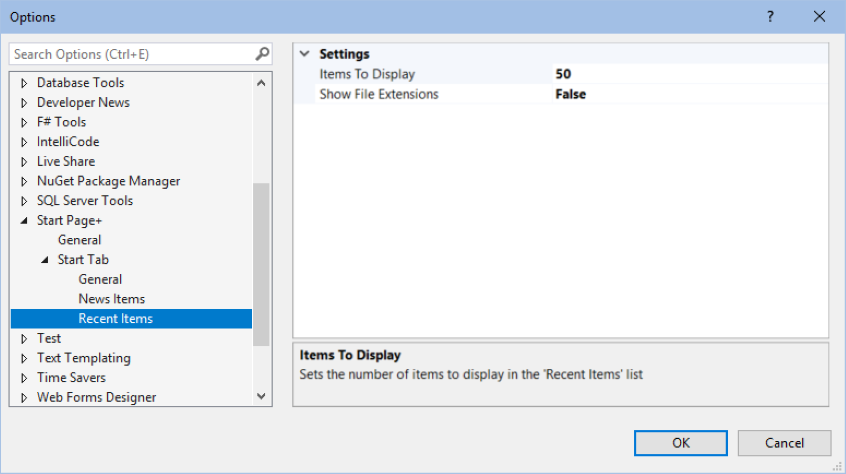
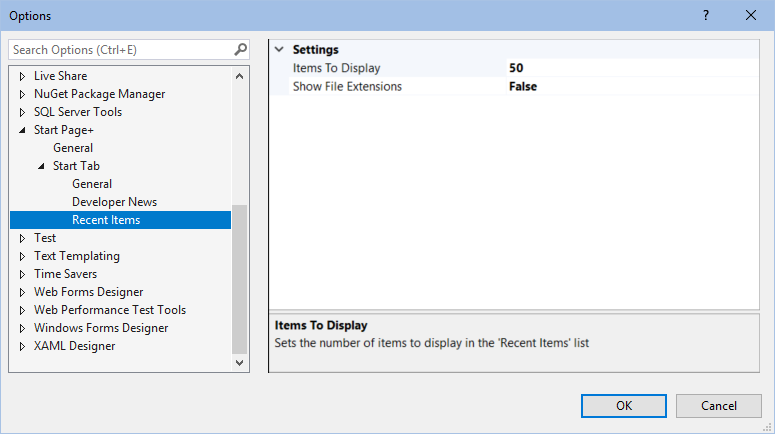
Update documentation source files
#1271 #1272 #1273 #1275 #1251

diff --git a/src/ui/Services/VisualStudioService.cs b/src/ui/Services/VisualStudioService.cs
@@ -49,8 +49,8 @@ namespace StartPagePlus.UI.Services
         private IVsShell4 VsShell4
             => GlobalServices.VsShell4;
 
-        public bool ExecuteCommand(string action)
-            => ExecuteCommand(action);
+        //public bool ExecuteCommand(string action)
+        //    => ExecuteCommand(action);
 
         public bool ExecuteCommand(string action, string args = null)
         {

diff --git a/docs-source/changelog.md b/docs-source/changelog.md
@@ -9,36 +9,47 @@ page on the [Start Page+][start-page-plus-url] website.
 ### v1.0 - 2020-05-28
 
 #### Added
-  - a **Restart Visual Studio** item to *Get Started* column [(GitHub Issue #20)][github-issue-20]
-    - also a Restart Visual Studio **_as Administrator_** item
-  - the ability to **pin**/**unpin** items in the *Recent Items* list [(GitHub Issue #21)][github-issue-21]
-  - a **Max Width** option [(GitHub Issue #32)][github-issue-32]
+- General
+    - a **Show Start Tab Title** option
+    - a **Start Tab Title Text** option
+    - a **Max Width** option [(GitHub Issue #32)][github-issue-32]
     - replaces fixed width of `1175`
-  - the ability to **remove** items from the *Recent Items* list [(GitHub Issue #35)][github-issue-35]
-  - the ability to **copy** an item's path to the Windows clipboard
-  - the ability to **collapse**/**expand** the group headings in the *Recent Items* list
-  - **Pin**/**Unpin** buttons to *Recent Items*
-    - previous pinned button did nothing
-  - a **Remove** button to *Recent Items* (only appears when the mouse hovers over an item)
-  - an **auto-refresh** to *Recent Items* after an item is clicked (updates the date/group it falls into)
-  - new options pages (**Start Tab**, **Recent Items**, **Developer News**)
-  - a **Changelog** button to the left of the version number in the *Get Started* column
-    - opens the website's changelog page
-  - an **Options** button to the right of the version number in the *Get Started* column
-    - opens `Tools` | `Options` | `Start Page+` | `General` in one click
-  - a **Settings** button to the right of the *Refresh* button in the *Recent Items* column
-    - opens `Tools` | `Options` | `Start Page+` | `Start Tab` | `Recent Items` in one click
-  - a **Settings** button to the right of the *Refresh* button in the *Developer News* column
-    - opens `Tools` | `Options` | `Start Page+` | `Start Tab` | `Developer News` in one click
-  - a **Start Page+ Options** menu item to open `Tools` | `Options` | `Start Page+` | `General`
+    - new options pages (**Start Tab**, **Recent Items**, **Developer News**)
+    - a **Start Page+ Options** menu item to open `Tools` | `Options` | `Start Page+` | `General`
     - found in `Tools` | `Options`
-  - an **Items to Display** option for *Recent Items*
-  - a **Show Extensions** option to show or hide project/solution extensions in *Recent Items* list
-  - a **Show Start Tab Title** option
-  - a **Start Tab Title Text** option that allows you to change the *Start* tab's title text
-  - a **Clear List Before Display** option for *Developer News*
-  - an **Items to Display** option for *Developer News*
-  - an **Items Feed Url** option for *Developer News*
+
+- Recent Items
+    - the ability to **pin**/**unpin** items [(GitHub Issue #21)][github-issue-21]
+    - a **Pin/Unpin** button to *Recent Items*
+        - previous pin button did nothing
+    - the ability to **Remove** items [(GitHub Issue #35)][github-issue-35]
+    - a **Remove** button (only appears when the mouse hovers over an item)
+    - the ability to **collapse**/**expand** the group headings
+    - a context menu
+        - **Pin**/**Unpin item**
+        - **Remove item**
+        - **Copy item path** (to the Windows clipboard)
+        - **Open item in VS** (new instance)
+    - an **auto-refresh** after an item is clicked (updates the date/group it falls into)
+    - a **Settings** button to the right of the *Refresh* button
+        - opens `Tools` | `Options` | `Start Page+` | `Start Tab` | `Recent Items` in one click
+    - a **Show Extensions** option to show or hide project/solution extensions
+    - an **Items to Display** option
+
+- Get Started
+    - a **Restart Visual Studio** item[(GitHub Issue #20)][github-issue-20]
+        - also a Restart Visual Studio **_as Administrator_** item
+    - a **Changelog** button to the left of the version number
+        - opens the website's changelog page
+    - an **Options** button to the right of the version number
+        - opens `Tools` | `Options` | `Start Page+` | `General` in one click
+
+- Developer News
+    - a **Settings** button to the right of the *Refresh* button
+        - opens `Tools` | `Options` | `Start Page+` | `Start Tab` | `Developer News` in one click
+    - a **Clear List Before Display** option
+    - an **Items to Display** option
+    - an **Items Feed Url** option
 
 [github-issue-20]: https://github.com/luminous-software/start-page-plus/issues/20
 [github-issue-21]: https://github.com/luminous-software/start-page-plus/issues/21
@@ -46,33 +57,34 @@ page on the [Start Page+][start-page-plus-url] website.
 [github-issue-32]: https://github.com/luminous-software/start-page-plus/issues/32
 
 #### Removed
-  - the **Continue Without Code** item from the *Get Started* column [(GitHub Issue #19)][github-issue-19]
+- the **Continue Without Code** item from the *Get Started* column [(GitHub Issue #19)][github-issue-19]
 
 [github-issue-19]: https://github.com/luminous-software/start-page-plus/issues/19
 
 #### Changed
-  - the website page that clicking on the version number takes you to
+- the website page that clicking on the version number takes you to
     - used to go to the *Changelog* page
     - now goes to the website's *Overview* page
-  - the position of the date in the *Recent Items* list to give more space for the
-project/solution/folder path
+- the position of the date in the *Recent Items* list
+    - to make room for the *Remove* button
 
 #### Fixed
-  - '*Recent Item Timeframes Disappear When Refresh is Clicked*' [(GitHub Issue #5)][github-issue-5]
-  - '*Be able to start typing in the Recent Item Filter Box with out having to click in it first*' [(GitHub Issue #6)][github-issue-6]
-  - '*PackageClass did not load correctly' (VS 2017)* [(GitHub Issue #8)][github-issue-8]
-  - '*Window is not docked on first ever use*' ([GitHub Issue #14][github-issue-14])
-  - '*Images in Start tab have the wrong background color in some themes*' [(GitHub Issue #22)][github-issue-22]
-  - '*Projects with space in the name not opening*' [(GitHub Issue #23)][github-issue-23]
-  - '*Dates have a fixed AU/UK format in the Recent Items list*' [(GitHub Issue #24)][github-issue-24]
-  - '*Only Folder, Solution, and C# Project currently have icons in Recent Items*' [(GitHub Issue #26)][github-issue-26]
-  - '_VS stopped responding for 28 seconds_' [(Github Issue #31)][github-issue-31]
-  - '*Recent Item accessed date not updating*' [(Github Issue #37)][github-issue-37]
-  - *Start Page+* is not respecting the *Open Links in VS* option
+- '*Recent item timeframes disappear when Refresh is clicked*' ([GitHub Issue #5][github-issue-5])
+- '*Be able to start typing in the Recent Item Filter Box with out having to click in it first*' ([GitHub Issue #6][github-issue-6])
+- '*PackageClass did not load correctly' (VS 2017)* ([GitHub Issue #8][github-issue-8])
+- '*Open Links in VS option doesn't do anything*' ([Github Issue #10][github-issue-10])
+- '*Window is not docked on first ever use*' ([GitHub Issue #14][github-issue-14])
+- '*Images in Start tab have the wrong background color in some themes*' ([GitHub Issue #22][github-issue-22])
+- '*Projects with space in the name not opening*' ([GitHub Issue #23][github-issue-23])
+- '*Dates have a fixed AU/UK format in the Recent Items list*' ([GitHub Issue #24][github-issue-24])
+- '*Only folders, solutions, and C# projects currently have icons in Recent Items*' ([GitHub Issue #26][github-issue-26])
+- '*VS stopped responding for 28 seconds*' ([Github Issue #31][github-issue-31])
+- '*Recent Item accessed date not updating*' ([Github Issue #37][github-issue-37])
 
 [github-issue-5]: https://github.com/luminous-software/start-page-plus/issues/5
 [github-issue-6]: https://github.com/luminous-software/start-page-plus/issues/6
 [github-issue-8]: https://github.com/luminous-software/start-page-plus/issues/8
+[github-issue-10]: https://github.com/luminous-software/start-page-plus/issues/10
 [github-issue-14]: https://github.com/luminous-software/start-page-plus/issues/14
 [github-issue-22]: https://github.com/luminous-software/start-page-plus/issues/22
 [github-issue-23]: https://github.com/luminous-software/start-page-plus/issues/23

diff --git a/docs-source/features.md b/docs-source/features.md
@@ -2,6 +2,8 @@ To display the new *Start Page+* window:
 
 - click **View** | **Start Page+**
 
+![Recent Items](assets/images/start-page-plus.png)
+
 ## Recent Items
 
 The *Recent Items* list brings back the ability to filter the list of recent items,
@@ -16,39 +18,84 @@ as you type.
 
 Click the **X** in the filter box to start again, or to go back to the full list of items.
 
+![Recent Items](assets/images/recent-items-live-filtering.png)
+
 ### Collapsible Timeframes
 
 Each timeframe group can be collapsed or expanded by clicking anywhere on the group name.
 This can come in handy if you want to view items that are currently not being displayed
 without having to scroll all the way down.
 
-### Pin/Unpin An Item
+![Recent Items](assets/images/recent-items-collapsed.png)
 
-Right-click an ***unpinned*** item in the *Recent Items* list, and select *Pin item* to ***pin*** it.
+### Buttons
+
+#### Pin An Item
+
+![Recent Items](assets/images/recent-item-pin.png)
+
+#### Unpin An Item
+
+![Recent Items](assets/images/recent-item-unpin.png)
+
+#### Remove An Item
+
+![Recent Items](assets/images/recent-item-remove.png)
+
+### Context Menu
+
+Right-clicking an item brings up a context menu to give you access to more actions.
+
+#### Pin/Unpin An Item
+
+Right-click an ***unpinned*** item in the *Recent Items* list, and select *Pin item*
+in the context menu to ***pin*** it.
 Or click on the icon to the right of the date.
 
-Right-click on a ***pinned*** item in the *Recent Items* list, and select *Unpin item* to ***unpin*** it.
+Right-click on a ***pinned*** item in the *Recent Items* list, and select *Unpin item*
+in the context menu to ***unpin*** it.
 Or click on the icon to the right of the date.
 
-### Remove An Item
+![Recent Items](assets/images/recent-item-context-menu-unpin.png)
 
-Right-click any item in the *Recent Items* list, and select *Remove item* to remove it.
+#### Remove An Item
 
-### Copy An Item's Path
+Right-click any item in the *Recent Items* list, and select *Remove item*
+in the context menu to remove it.
 
-Right-click any item in the *Recent Items* list, and select *Copy item path* to copy it
-path to the Windows clipboard. You can then paste it anywhere you need to.
+![Recent Items](assets/images/recent-item-context-menu-remove.png)
 
-### Refresh
 
-When you select the number of items to display, you'll need to click the *Refresh* button to see
+#### Copy An Item's Path
+
+Right-click any item in the *Recent Items* list, and select *Copy item path*
+in the context menu to copy it path to the Windows clipboard.
+You can then paste it anywhere you need to.
+
+![Recent Items](assets/images/recent-item-context-menu-copy-item-path.png)
+
+#### Open Item In VS
+
+Right-click any item in the *Recent Items* list, and select *Open in new VS instance*
+in the context menu to copy its path to the Windows clipboard.
+You can then paste it anywhere you need to.
+
+![Recent Items](assets/images/recent-item-context-menu-open-in-vs.png)
+
+### Links
+
+![Recent Items](assets/images/recent-items-links.png)
+
+#### Refresh
+
+When you select the number of items to display, you'll need to click the *Refresh* link to see
 the change.
 It's also a quick way to expand all of the timeframe groups at once.
 
-### Settings
+#### Settings
 
-Clicking on the *Settings* button will open the *Recent Items* settings page in the
-Tools | Options | Start Page+ dialog without having to navigate through teh dropdowns.
+Clicking on the *Settings* link will open the `Tools` | `Options` | `Start Page+` | `Recent Items`
+settings page without having to navigate through the dropdowns.
 
 ## Start Actions
 
@@ -90,11 +137,15 @@ Note: if you launch Visual Studio as Administrator, you can't get back to a non-
 clicking on *Restart Visual Studio*.
 There doesn't seem to be a programmatic way to force an elevated session to restart as a normal session.
 
-### Changelog Button
+### Links
+
+![Recent Items](assets/images/get-started-links.png)
+
+#### Changelog
 
 With just a single-click you can see what's changed in the new version of *Start Page+*.
 
-### Version Number
+#### Version Number
 
 This is a subtle way of being able to see the version number of the currently installed version of
 *Start Page+*.
@@ -102,9 +153,9 @@ This is a subtle way of being able to see the version number of the currently in
 Clicking on the version number will open the website's Overview page.
 On there you can see what the latest available version of *Start Page+* is at the top of the page.
 
-### Options Button
+#### Options
 
-Clicking on the *Options* button is a quick way to get to the *Start Page+* options page without
+Clicking on the *Options* link is a quick way to get to the *Start Page+* options page without
 having to use `Tools` | `Options` | `Start Page+`.
 
 ## Developer News
@@ -116,7 +167,7 @@ start page.
 
 ![Developer News](assets/images/developer-news.png)
 
-### Set Items Feed Url
+### Items Feed Url
 
 By default the feed url is set to the url of the original *Developer News* that used to be in Visual Studio 2017.
 Microsoft is currently still maintaining that feed, but could stop doing so at any time.
@@ -128,7 +179,7 @@ But it seems that may currently have the same items.
 
 The *Visual Studio Blog* feed url is `https://devblogs.microsoft.com/visualstudio/feed`.
 
-### Set Items to Display
+### Items to Display
 
 You can choose the number of items that are displayed in the list.
 
@@ -136,7 +187,7 @@ There are only 10 items in the orginal feed, and Microsoft replaces older posts 
 If you set a feed url to something that has a lerger number of items you might want to limit
 how many are downloaded and displayed.
 
-### Open Links in VS or Browser
+### Open Items in VS
 
 By default the items open right in VS itself, rather than switching to the default browser.
 Personally, I prefer having to switch applications as little as possible.
@@ -146,26 +197,35 @@ to switch to a different application, and then back again to Visual Studio.
 However, for those people who prefer links to be opened in their default browser,
 there's an option to change Start Page+'s behavior to do just that.
 
+### Links
+
+![Recent Items](assets/images/developer-news-links.png)
+
 ### Refresh
 
 There is currently no auto-refresh for *Developer News*, so you'll have to click *Refresh* to
 check if you have the latest available news items from Microsoft.
 
-Also, when you select the number of items to display, you'll need to click the *Refresh* button
+Also, when you select the number of items to display, you'll need to click the *Refresh* link
 to see the change.
+
+#### Settings
+
+Clicking on the *Settings* link will open the `Tools` | `Options` | `Start Page+` | `Developer News`
+settings page without having to navigate through the dropdowns.
 
 ## General Options
 
 ![General Options](assets/images/options-general.png)
 
-### Enable 'Start Page+'
+### Enable Start Page+
 
 This setting allows _Start Page+_ to be disabled if you need to,
 without having to uninstall the _Start Page+_ extension, which would require you to exit
 **all** instances of Visual Studio, wait while the _VSIX installer_ does its thing,
 then open Visual Studio again.
 
-### Enable 'Start Page+ Options'
+### Enable Start Page+ Options
 
 By default, a 'Start Page+ Options' command is added to the `Tools` | `Options` menu.
 This setting lets you choose to not have the menu item added.
@@ -242,6 +302,6 @@ The default value is `https://vsstartpage.blob.core.windows.net/news/vs`.
 When this setting is set to `true`, any clicked item that opens a web page will be opened in a browser window
 **inside** of Visual Studio.
 
-When set to `false`, clicked items that open a web page will be opened in your default browser.
+When set to `false`, clicked items will be opened in your default browser.
 
 The default value is `true`.

diff --git a/docs-source/index.md b/docs-source/index.md
@@ -54,7 +54,7 @@ When Visual Studio 2019 was released, many developers were dismayed to find that
 had been completely replaced by the new _Start Window_ (a big **modal** dialog window, with no room
 for _Developer News_).
 
-![Start Window](assets/images/start-window-dark.png)
+![Start Window](assets/images/start-window-light.png)
 
 ## Introducing Start Page+
 
@@ -64,6 +64,8 @@ _Start Page_, and unfortunately those pleas have fallen on deaf ears.
 [developer-community-forum-url]: https://developercommunity.visualstudio.com/search.html?f=&type=question+OR+problem+OR+idea&type=question+OR+problem+OR+idea&c=&redirect=search%2Fsearch&sort=relevance&q=start+page
 
 Well, you asked and now _Start Page+_ delivers!
+
+![Start Window](assets/images/start-page-plus.png)
 
 The [Start Page+][start-page-plus-url] extension adds a new start page that is a **dockable tool window**,
 not a **modal window**.
